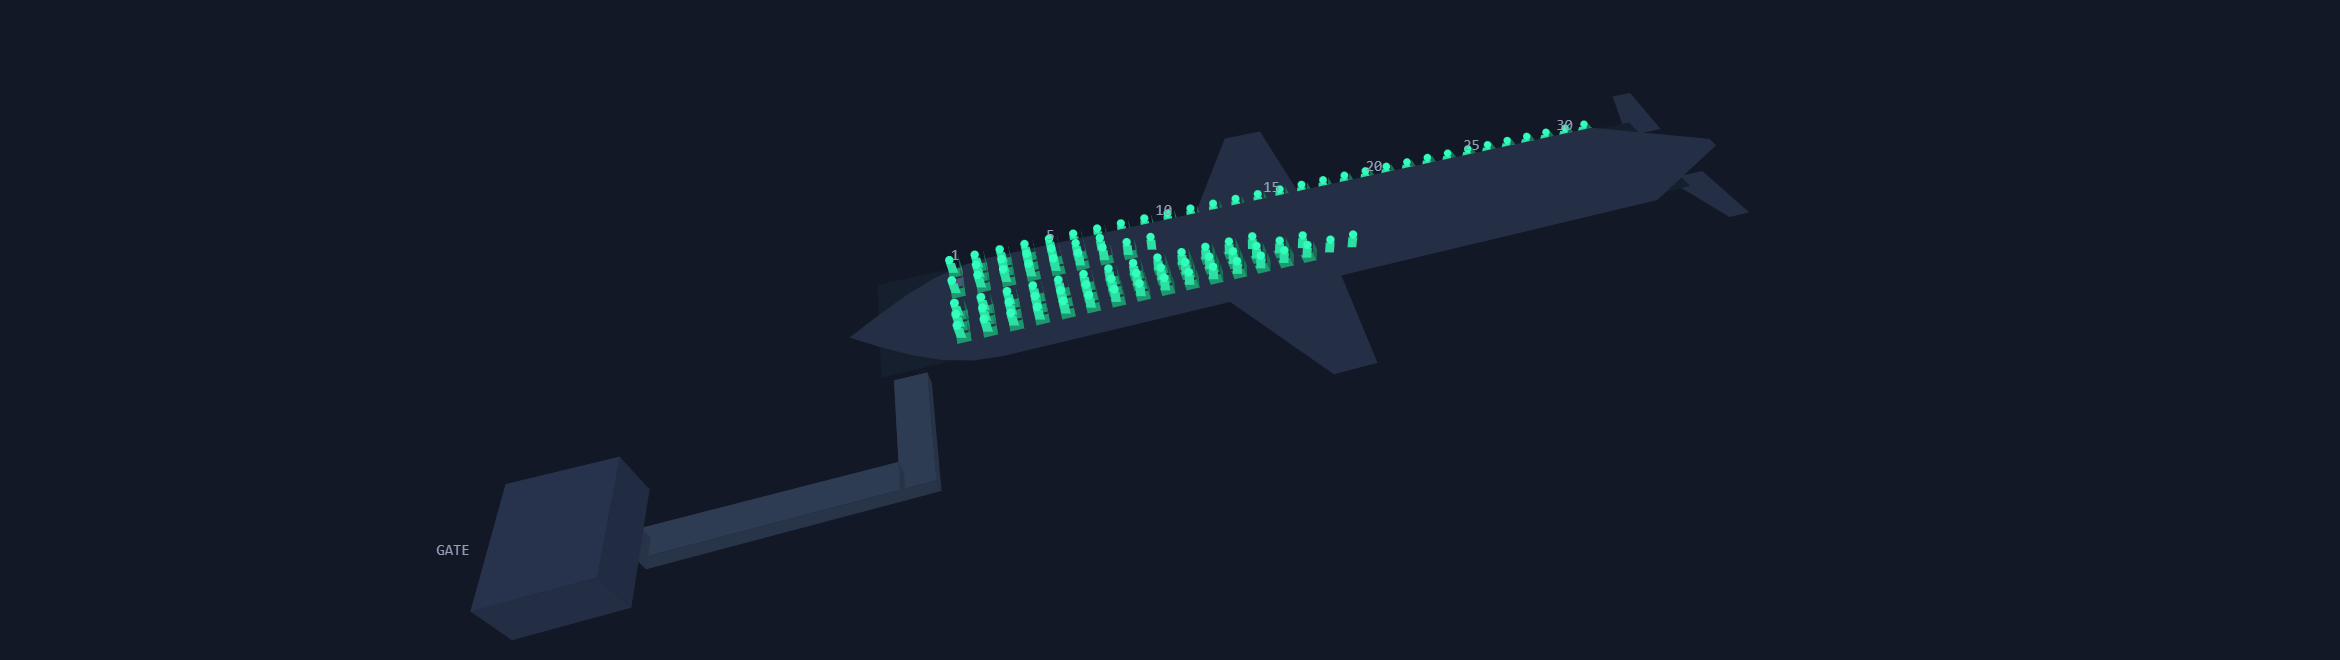
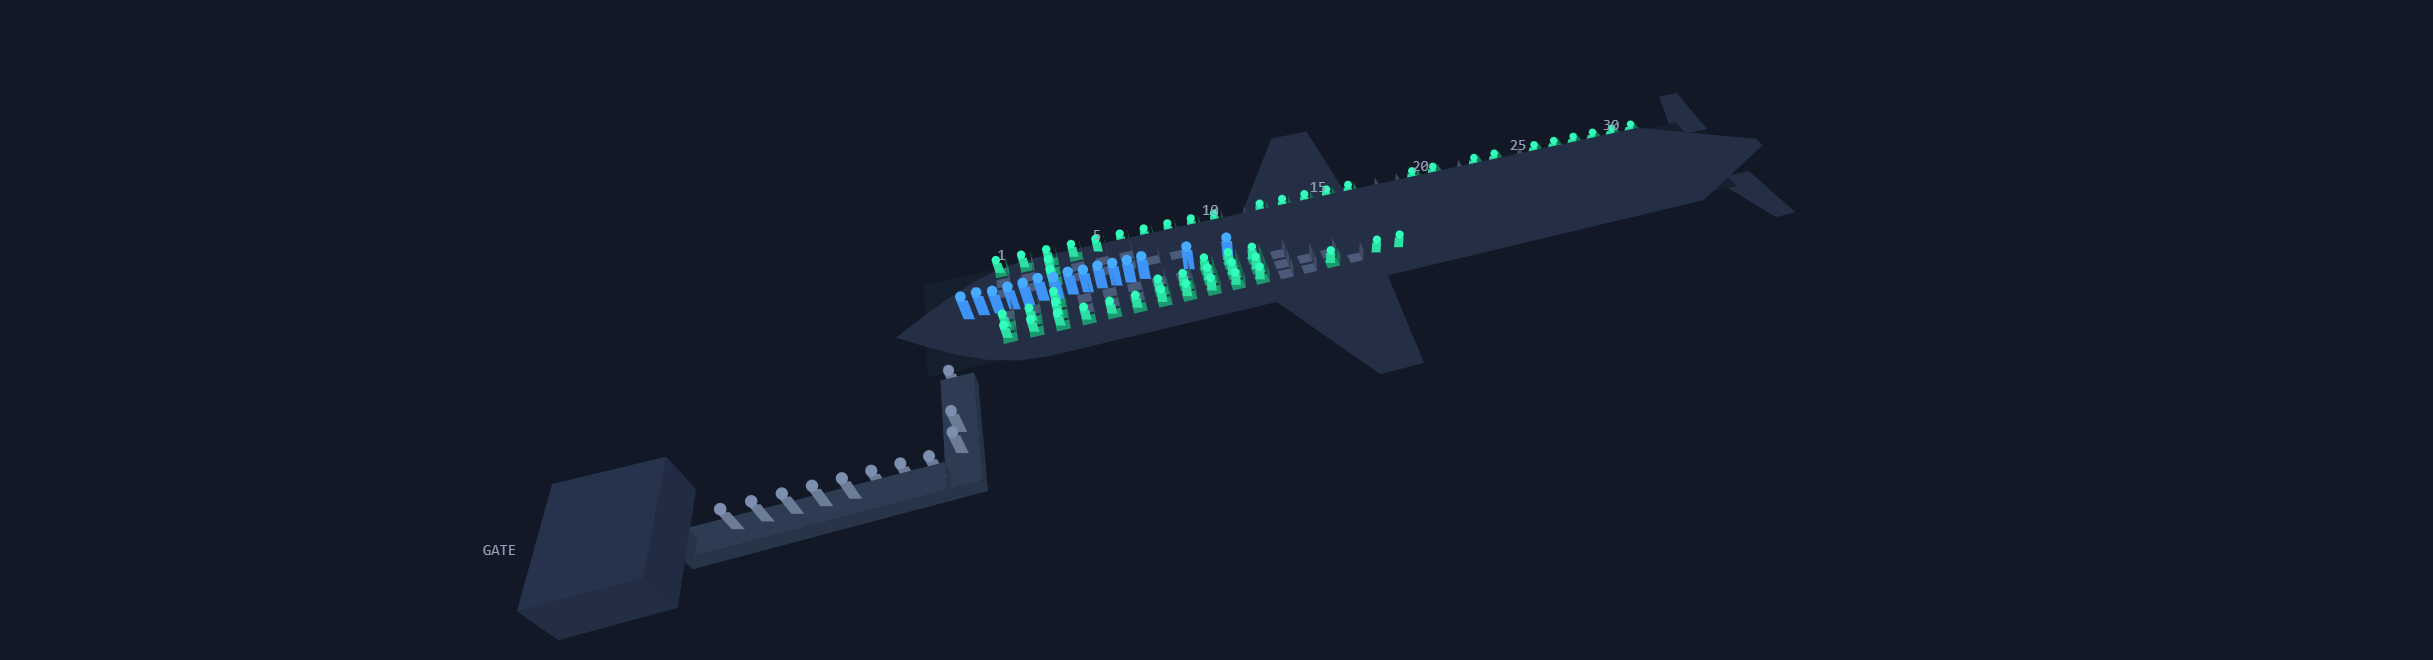
Fill the width properly, live method cards, and a parameters panel worth opening
The three paragraphs that kept breaking at half the page were breaking for two
different reasons, so they needed two different fixes. A short lead put into
columns reads as two half-lines side by side, which is worse than the narrow
column it replaced — those now run the full width with larger type. Long blocks
genuinely do want columns, and the results intro had an inline max-width:84ch on
its wrapper that overrode every rule aimed at it. All three now use 96% of the
page instead of 36 to 41%.

The method cards are live. Each carries a strip in the same five colours the
cabin above uses — seated, stowing, climbing over, walking, still at the gate —
and it fills as the simulation runs, with a plain-language line under it. Watching
fourteen at once is the clearest view of why a method is fast: back-to-front
spends the whole run with a wide orange band because its zone is stowing in one
place, and Steffen barely shows pink at all.

The scenario chips were six words with no explanation sitting in the toolbar.
They now live inside the parameters panel with a sentence each saying what they
do and why you would pick one, and selecting one sets every field at once.
"Tune…" is now "Parameters", which is what it is.

Number fields lost their spinners. Clicking a two-pixel arrow forty times is not
how anyone changes 9.0 seconds to 14.5.

Both README figures were wrong. patterns.png was 98% white — the canvases were
[…]

diff --git a/index.html b/index.html
@@ -99,18 +99,30 @@ h1{font-size:clamp(32px,4.1vw,52px); line-height:1.04; max-width:17ch;
 
 /* ── why ── */
 .blk{padding:30px 0; border-top:1px solid var(--line)}
-/* Section intros used to sit in an 84-character column with two thirds of a
-   1640px page empty beside them. They now run in columns on a wide screen, so
-   the measure stays where it is readable and the page stops looking like a
-   document somebody forgot to lay out. */
-.shead{margin-bottom:18px}
-.shead h2{font-size:clamp(20px,1.6vw,26px)}
-.shead p{margin:7px 0 0; color:var(--ink-2); font-size:15px; max-width:88ch}
+/* Width, and why it is done two different ways.
+   A short lead of a line or two put into columns reads as two half-lines side
+   by side, which is worse than the narrow column it replaced. A long block put
+   across the full width of a 1710px page runs to about two hundred characters
+   and the eye loses the return. So length decides: leads run the full width
+   with larger type, long blocks run in columns where columns actually work. */
+.shead{margin-bottom:18px; max-width:none}
+.shead h2{font-size:clamp(20px,1.7vw,27px)}
+.shead p{margin:9px 0 0; color:var(--ink-2); max-width:none;
+  font-size:clamp(15px,1.08vw,17.5px); line-height:1.62}
 @media (min-width:1180px){
-  .shead.flow p{columns:2; column-gap:44px; max-width:none}
-  .shead.flow p{break-inside:auto}
+  .shead.cols p{columns:2; column-gap:48px}
+  .shead.cols p{break-inside:auto}
 }
-.shead.flow{max-width:none}
+
+/* The results header: the intro across the page, the controls beneath it,
+   rather than a narrow column of text with a row of buttons pinned beside it. */
+.reshead{display:flex; flex-direction:column; gap:14px}
+.reshead-text{max-width:none}
+@media (min-width:1180px){ .reshead-text p{columns:2; column-gap:48px} }
+@media (min-width:1560px){ .reshead-text p{columns:3; column-gap:44px} }
+.foot{max-width:none}
+@media (min-width:1180px){ .foot{columns:2; column-gap:46px} }
+@media (min-width:1560px){ .foot{columns:3; column-gap:42px} }
 .figs{display:grid; grid-template-columns:repeat(auto-fit,minmax(200px,1fr));
   border:1px solid var(--line); border-radius:var(--radius); overflow:hidden}
 .fig{padding:15px 17px 16px; border-right:1px solid var(--line); border-bottom:1px solid var(--line)}
@@ -158,6 +170,38 @@ tr.boarding td b{color:var(--ink-2); font-weight:500}
   font-style:normal; font-weight:600; color:var(--accent); background:var(--accent-soft);
   border-radius:20px; padding:1px 6px; vertical-align:1px}
 
+
+
+/* the live strip on each card */
+.pulse{display:flex; height:7px; border-radius:4px; overflow:hidden; margin:0 0 7px;
+  background:var(--surface-3)}
+.pulse .seg{display:block; height:100%; width:0; transition:width .25s linear}
+.pulse .s-seat{background:var(--st-seat)}
+.pulse .s-stow{background:var(--st-stow)}
+.pulse .s-block{background:var(--st-block)}
+.pulse .s-move{background:var(--st-move)}
+.pulse .s-wait{background:var(--st-wait); opacity:.45}
+.pstat{font-size:11.5px; color:var(--ink-3); margin:0 0 9px; min-height:16px}
+.pstat b{font-family:var(--mono); font-size:12.5px; color:var(--ink); font-weight:600}
+.card.running{border-color:var(--accent-soft)}
+.card.running .pstat b{color:var(--accent)}
+
+/* the parameters panel */
+.tsec{margin-bottom:22px}
+.tsec:last-child{margin-bottom:4px}
+.tstitle{font-size:13px; letter-spacing:.02em; margin:0 0 4px; color:var(--ink)}
+.tshint{margin:0 0 12px; font-size:12.5px; color:var(--ink-3); line-height:1.5; max-width:none}
+.scens{display:grid; grid-template-columns:repeat(auto-fit,minmax(240px,1fr)); gap:10px}
+.scen{display:block; text-align:left; padding:11px 13px; background:#fff;
+  border:1px solid var(--line-2); border-radius:9px; cursor:pointer; font:inherit;
+  transition:border-color .15s, background .15s}
+.scen:hover{border-color:var(--ink-3)}
+.scen[aria-pressed=true]{border-color:var(--accent); background:var(--accent-soft);
+  box-shadow:0 0 0 1px var(--accent)}
+.scen b{display:block; font-size:13.5px; font-weight:600; margin-bottom:3px}
+.scen span{display:block; font-size:12px; line-height:1.45; color:var(--ink-3)}
+.scen[aria-pressed=true] span{color:var(--ink-2)}
+
 /* ── tune panel ── */
 #tune{border:1px solid var(--line); border-radius:var(--radius); padding:18px 20px;
   margin-top:16px; background:var(--surface-2)}
@@ -168,13 +212,16 @@ tr.boarding td b{color:var(--ink-2); font-weight:500}
 .p .box input[type=number]{width:100%; font-family: var(--mono); font-size:15px;
   font-weight:600; font-variant-numeric:tabular-nums; color:var(--ink);
   background:#fff; border:1px solid var(--line-2); border-radius:7px;
-  padding:8px 11px; padding-right:62px; -moz-appearance:textfield}
+  padding:9px 12px; padding-right:54px; -moz-appearance:textfield;
+  appearance:textfield}
+/* No spinners. If you want a different number you type it, which is faster
+   than clicking a 2-pixel arrow forty times and is what the field is for. */
 .p .box input[type=number]::-webkit-outer-spin-button,
-.p .box input[type=number]::-webkit-inner-spin-button{opacity:.35; height:26px}
+.p .box input[type=number]::-webkit-inner-spin-button{-webkit-appearance:none; margin:0}
 .p .box input:hover{border-color:var(--ink-3)}
 .p .box input:focus{border-color:var(--accent); outline:none;
   box-shadow:0 0 0 3px var(--accent-soft)}
-.p .box .u{position:absolute; right:30px; font-family: var(--mono); font-size:11.5px;
+.p .box .u{position:absolute; right:12px; font-family: var(--mono); font-size:11.5px;
   color:var(--ink-3); pointer-events:none; letter-spacing:.02em}
 .p .ex{margin:7px 0 0; font-size:12px; line-height:1.45; color:var(--ink-2)}
 .p .rg{margin:4px 0 0; font-family: var(--mono); font-size:10.5px; color:var(--ink-3);
@@ -278,7 +325,7 @@ table.data tbody tr:last-child td{border-bottom:0}
 .badge{display:inline-block; font-family: var(--mono); font-size:10px;
   letter-spacing:.1em; text-transform:uppercase; padding:3px 9px; border-radius:99px;
   border:1px solid var(--line-2); color:var(--ink-3); white-space:nowrap}
-.foot{margin-top:22px; font-size:12px; color:var(--ink-3); max-width:96ch}
+.foot{margin-top:22px; font-size:12.5px; color:var(--ink-3); line-height:1.6}
 
 /* ── print report ── */
 #report{display:none}
@@ -326,7 +373,7 @@ table.data tbody tr:last-child td{border-bottom:0}
 </header>
 
 <section class="blk">
-  <div class="shead flow">
+  <div class="shead">
     <h2>Why this is worth modelling</h2>
     <p>Boarding is the longest and most variable task in a narrow-body turnaround, and the only one
       whose duration is set by a queueing rule the airline chooses for free.</p>
@@ -374,8 +421,7 @@ table.data tbody tr:last-child td{border-bottom:0}
   </div>
   <input type="hidden" id="doors" value="1">
   <span class="sep"></span>
-  <div class="chips" id="scen"></div>
-  <button id="tunebtn" aria-pressed="false">Tune…</button>
+  <button id="tunebtn" aria-pressed="false">Parameters</button>
   <div class="grow"></div>
   <div class="seg" role="group" aria-label="Speed">
     <button data-spd="1" aria-pressed="false">×1</button>
@@ -388,7 +434,21 @@ table.data tbody tr:last-child td{border-bottom:0}
   <button id="pdf">Report</button>
 </div>
 
-<div id="tune" hidden><div class="tgrid" id="tgrid"></div></div>
+<div id="tune" hidden>
+  <div class="tsec">
+    <h3 class="tstitle">Start from a situation</h3>
+    <p class="tshint">Each one sets every parameter below at once. Change anything
+      afterwards and the situation is no longer selected — the numbers are yours.</p>
+    <div class="scens" id="scen"></div>
+  </div>
+  <div class="tsec">
+    <h3 class="tstitle">Or set them yourself</h3>
+    <p class="tshint">Type a value. Every one of these changes the ranking, and the
+      two that change it most are how long a bag takes to stow and how accurately
+      people queue.</p>
+    <div class="tgrid" id="tgrid"></div>
+  </div>
+</div>
 
 <!-- ═════════════ stage ═════════════ -->
 <div class="stage">
@@ -432,8 +492,8 @@ table.data tbody tr:last-child td{border-bottom:0}
 
 <!-- ═════════════ results ═════════════ -->
 <section class="blk" style="border-top:0; padding-top:30px">
-  <div class="shead" style="display:flex; justify-content:space-between; align-items:flex-start; gap:14px; max-width:none">
-    <div style="max-width:84ch">
+  <div class="shead reshead">
+    <div class="reshead-text">
       <h2>Full results</h2>
       <p>The stage above is a single game, and a single game cannot rank these methods.
         Replaying across manifests is what separates the merit of a method from the luck of
@@ -458,7 +518,7 @@ table.data tbody tr:last-child td{border-bottom:0}
 </section>
 
 <section class="blk">
-  <div class="shead flow">
+  <div class="shead cols">
     <h2>The fourteen methods</h2>
     <p>Each card opens with the seat map of the aircraft currently selected, laid out the way you
       would see it looking down on the cabin: <b>rows run left to right, nose to tail</b>, seat
@@ -656,12 +716,18 @@ const PARAMS = [
 
 /* ══════════════════════ scenarios ══════════════════════ */
 const SCEN = {
-  typical: {n:"Typical",        v:{load:83, pnobag:22, ptwobag:20, pgroup:30, pprio:0,  disc:80, stow:90,  gate:30}},
-  full:    {n:"Full flight",    v:{load:100,pnobag:15, ptwobag:28, pgroup:38, pprio:0,  disc:80, stow:95,  gate:30}},
-  bags:    {n:"Everyone packs", v:{load:95, pnobag:3,  ptwobag:55, pgroup:30, pprio:0,  disc:80, stow:105, gate:30}},
-  prio:    {n:"Priority-heavy", v:{load:92, pnobag:18, ptwobag:22, pgroup:34, pprio:35, disc:80, stow:90,  gate:30}},
-  perfect: {n:"Perfect queue",  v:{load:92, pnobag:18, ptwobag:22, pgroup:34, pprio:0,  disc:100,stow:90,  gate:30}},
-  chaos:   {n:"Nobody queues",  v:{load:92, pnobag:18, ptwobag:22, pgroup:34, pprio:0,  disc:25, stow:90,  gate:30}},
+  typical: {n:"Typical flight", d:"An ordinary weekday departure: 83% full, most people with one bag, a queue that roughly does as it is told.",
+    v:{load:83, pnobag:22, ptwobag:20, pgroup:30, pprio:0,  disc:80, stow:90,  gate:30}},
+  full:    {n:"Full flight",    d:"Every seat sold. Nobody can pick an easy seat and the last aboard have nowhere good to go.",
+    v:{load:100,pnobag:15, ptwobag:28, pgroup:38, pprio:0,  disc:80, stow:95,  gate:30}},
+  bags:    {n:"Everyone packs", d:"Checked-bag fees taken to their conclusion: almost nobody travels light and more than half bring two items.",
+    v:{load:95, pnobag:3,  ptwobag:55, pgroup:30, pprio:0,  disc:80, stow:105, gate:30}},
+  prio:    {n:"Priority boarding sold hard", d:"35% board first regardless of seat. This is the ancillary-revenue product, and it is where the good methods collapse.",
+    v:{load:92, pnobag:18, ptwobag:22, pgroup:34, pprio:35, disc:80, stow:90,  gate:30}},
+  perfect: {n:"A laboratory queue", d:"Everyone lines up in exactly the order called. Not a real gate — the upper bound on what sorting can buy.",
+    v:{load:92, pnobag:18, ptwobag:22, pgroup:34, pprio:0,  disc:100,stow:90,  gate:30}},
+  chaos:   {n:"Nobody listens",    d:"A late, disorganised gate: the order is announced and largely ignored. Watch the sorted methods lose their advantage.",
+    v:{load:92, pnobag:18, ptwobag:22, pgroup:34, pprio:0,  disc:25, stow:90,  gate:30}},
 };
 
 /* ══════════════════════ configuration ══════════════════════ */
@@ -1724,6 +1790,12 @@ function renderCards(){
           "<dl><dt>How</dt><dd>" + st.how + "</dd>" +
           "<dt>Who</dt><dd>" + st.who + "</dd>" +
           "<dt>Found</dt><dd>" + st.find + "</dd></dl>" +
+          "<div class='pulse' data-pulse='" + k + "'>" +
+            "<i class='seg s-seat'></i><i class='seg s-stow'></i>" +
+            "<i class='seg s-block'></i><i class='seg s-move'></i>" +
+            "<i class='seg s-wait'></i>" +
+          "</div>" +
+          "<div class='pstat' data-pstat='" + k + "'></div>" +
           "<div class='mini'>" +
             "<div><span>vs fastest</span><b>" + dt + "</b></div>" +
             "<div><span>pax/min</span><b>" + (r.rate ? nf(r.rate,1) : "—") + "</b></div>" +
@@ -1732,7 +1804,10 @@ function renderCards(){
           "</div></div></article>";
       }).join("") + "</div></div>";
   }).join("");
-  requestAnimationFrame(() => $$("canvas[data-pat]").forEach(c => drawPattern(c, c.dataset.pat)));
+  requestAnimationFrame(() => {
+    $$("canvas[data-pat]").forEach(c => drawPattern(c, c.dataset.pat));
+    paintCards();
+  });
 }
 
 function renderFamLeg(){
@@ -1818,6 +1893,53 @@ function renderFamLeg(){
   requestAnimationFrame(frame);
 })();
 
+
+
+/* ══════════════════════ live cards ══════════════════════
+   Each method card carries a strip of the same five colours the cabin above
+   uses: seated, stowing, climbing over, walking, still at the gate. Watching
+   fourteen of them fill at once is the clearest view of *why* a method is fast
+   — back-to-front spends the whole run with a wide orange band because its
+   zone is stowing in one place, and Steffen barely shows pink at all.       */
+function paintCards(){
+  if(!race) return;
+  for(const k of RACE_KEYS){
+    const strip = document.querySelector("[data-pulse='" + k + "']");
+    if(!strip) continue;
+    const s = race.simOf(k);
+    let seat = 0, stow = 0, block = 0, move = 0, wait = 0;
+    for(const p of s.pax){
+      switch(p.state){
+        case "seated":  seat++;  break;
+        case "stow":    stow++;  break;
+        case "shuffle": block++; break;
+        case "walk":    move++;  break;
+        default:        wait++;
+      }
+    }
+    const n = Math.max(1, s.pax.length);
+    const segs = strip.children;
+    const pct = v => (100*v/n).toFixed(2) + "%";
+    segs[0].style.width = pct(seat);
+    segs[1].style.width = pct(stow);
+    segs[2].style.width = pct(block);
+    segs[3].style.width = pct(move);
+    segs[4].style.width = pct(wait);
+
+    const out = document.querySelector("[data-pstat='" + k + "']");
+    if(out){
+      out.innerHTML = s.done
+        ? "<b>" + mmss(s.T) + "</b> <span>everyone seated</span>"
+        : "<b>" + Math.round(100*seat/n) + "%</b> <span>seated · " +
+          (stow ? stow + " stowing" : "") + (stow && block ? " · " : "") +
+          (block ? block + " climbing over" : "") +
+          (!stow && !block ? move + " walking" : "") + "</span>";
+    }
+    const card = strip.closest(".card");
+    if(card) card.classList.toggle("running", !s.done && playing);
+  }
+}
+
 /* ══════════════════════ loop ══════════════════════ */
 function frame(now){
   const dt = Math.min(0.1, (now - lastT)/1000 || 0);
@@ -1840,6 +1962,7 @@ function frame(now){
   if(finishTick > 0.25){
     finishTick = 0;
     renderFinish();
+    paintCards();
     if(playing && race && !race.done && !mc) renderTable();
   }
   requestAnimationFrame(frame);
@@ -2007,7 +2130,8 @@ function clampParams(){
 function syncLabels(){ /* the box is the label now */ }
 
 $("#scen").innerHTML = Object.keys(SCEN).map(k =>
-  "<button data-scen='" + k + "' aria-pressed='false'>" + SCEN[k].n + "</button>").join("");
+  "<button class='scen' data-scen='" + k + "' aria-pressed='false'>" +
+  "<b>" + SCEN[k].n + "</b><span>" + SCEN[k].d + "</span></button>").join("");
 function applyScen(k){
   const v = SCEN[k].v;
   for(const id in v) $("#" + id).value = toBox(id, v[id]);
